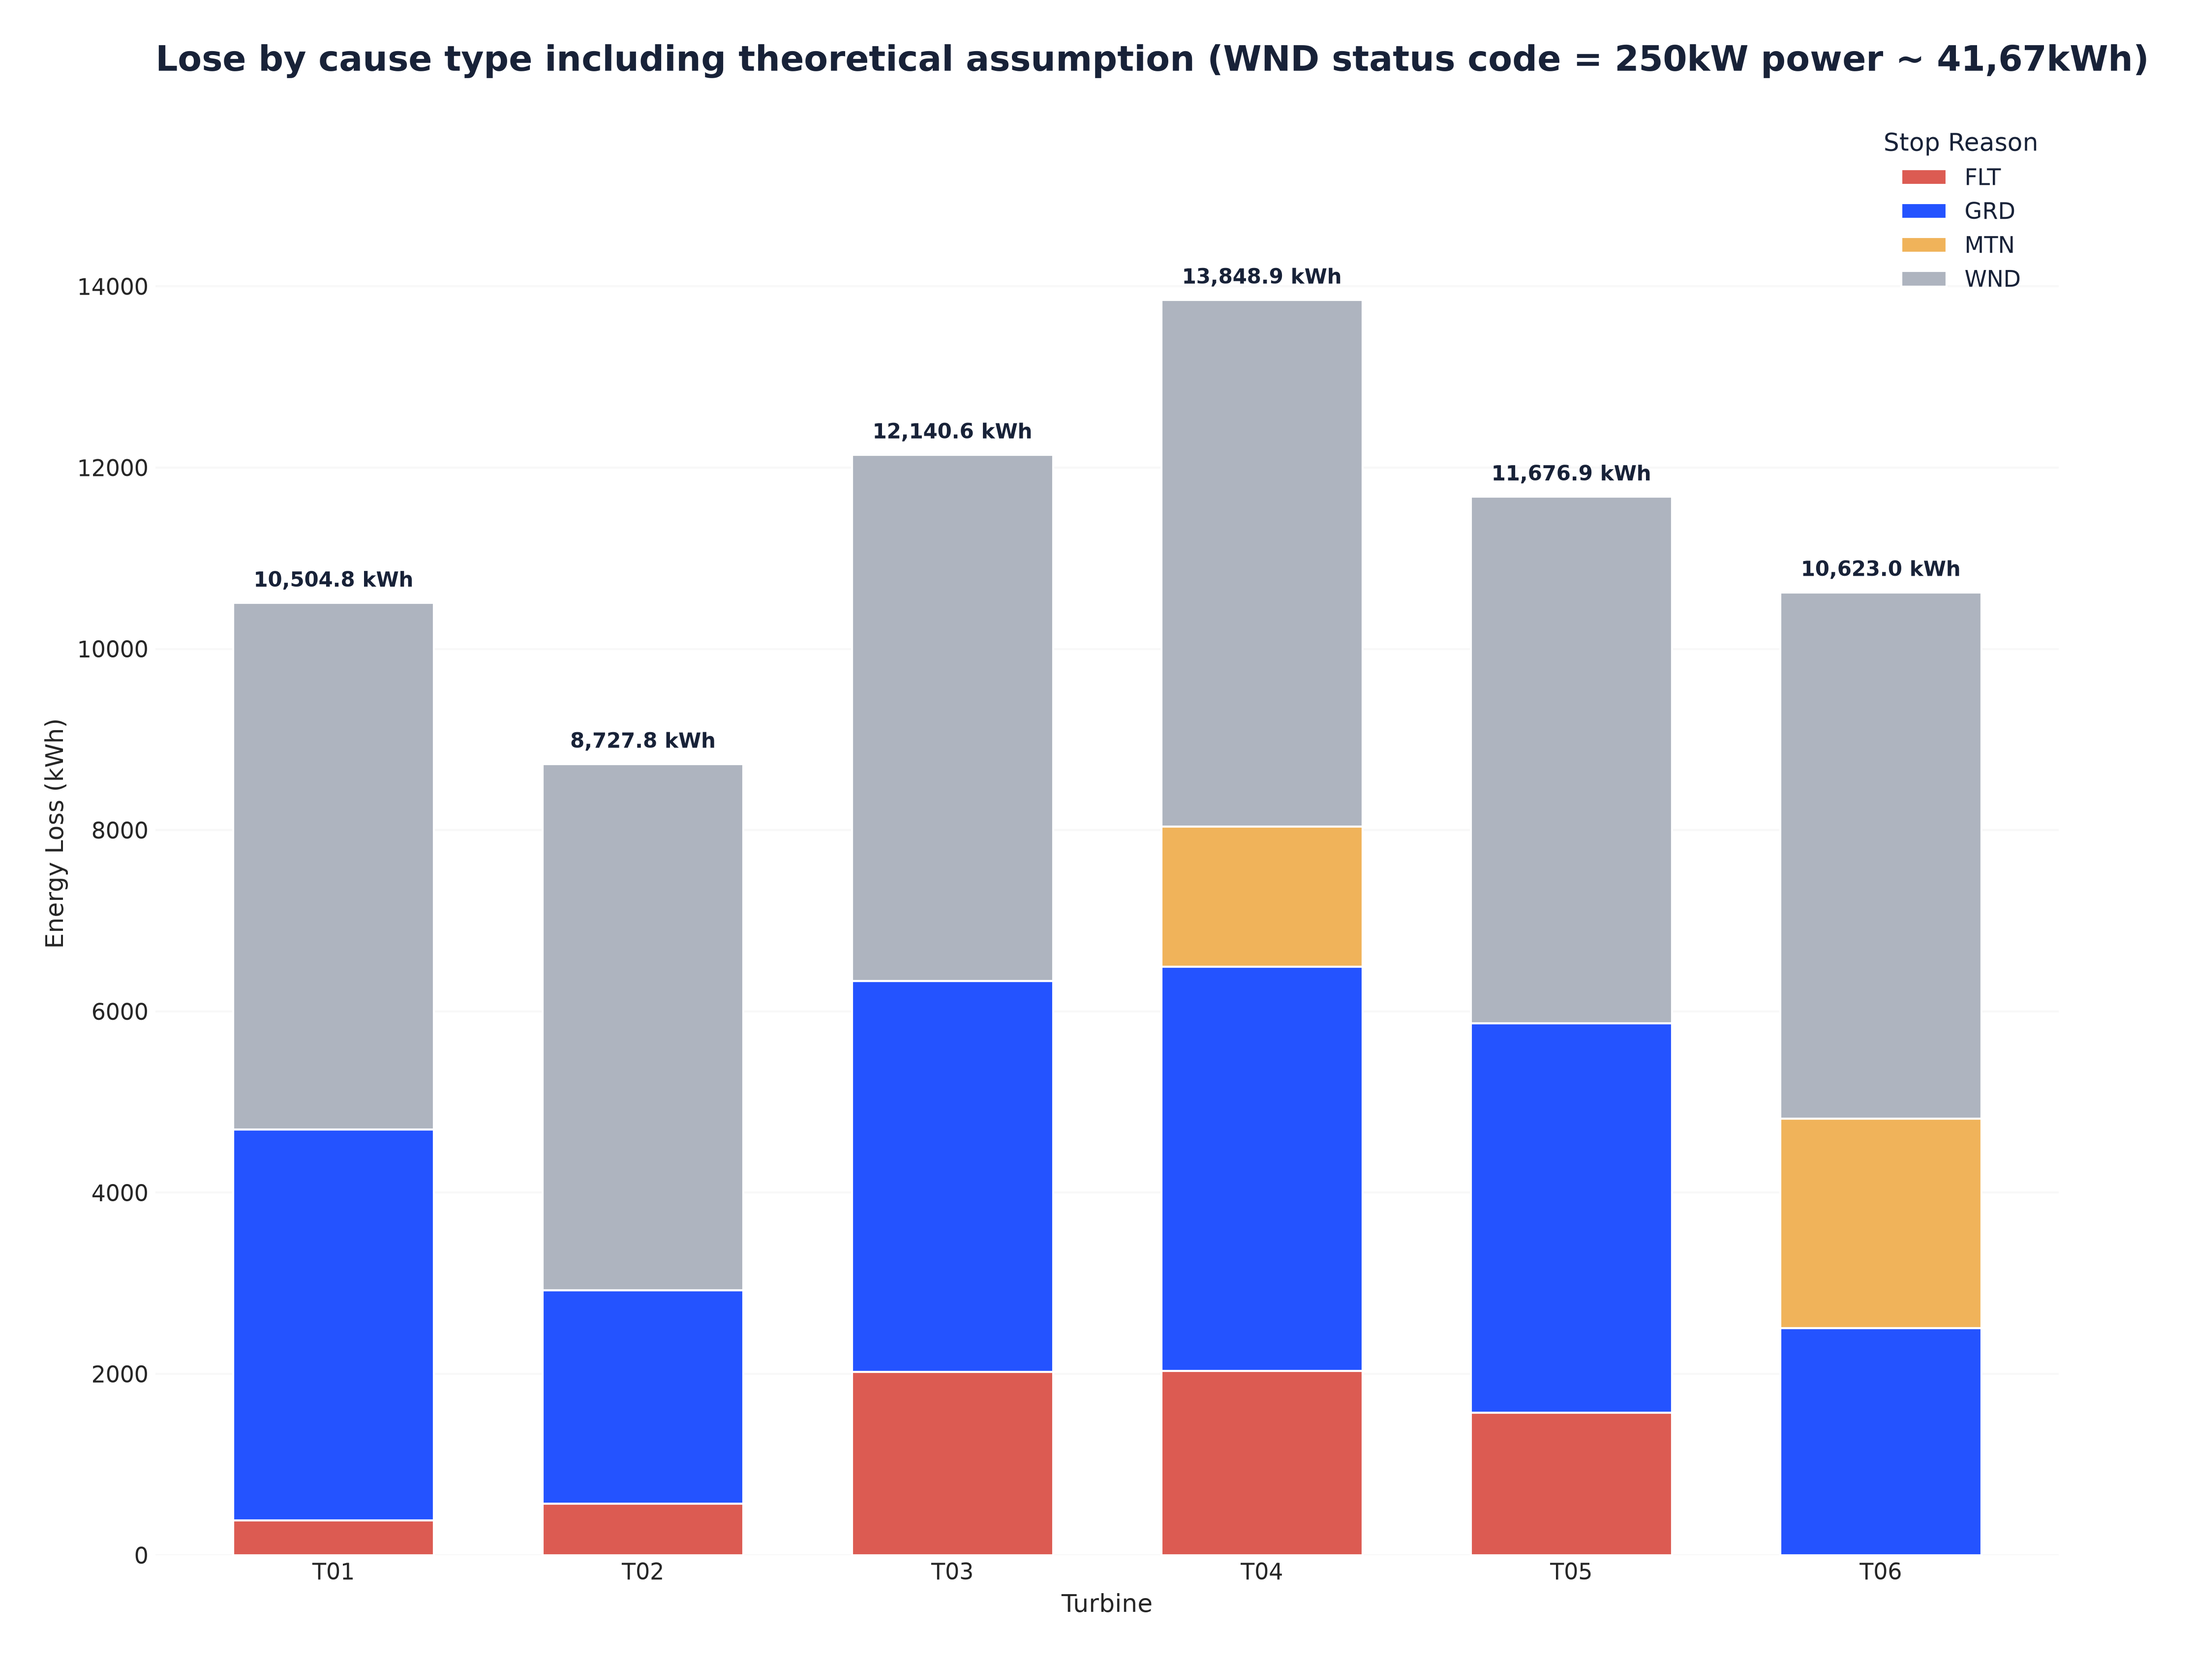
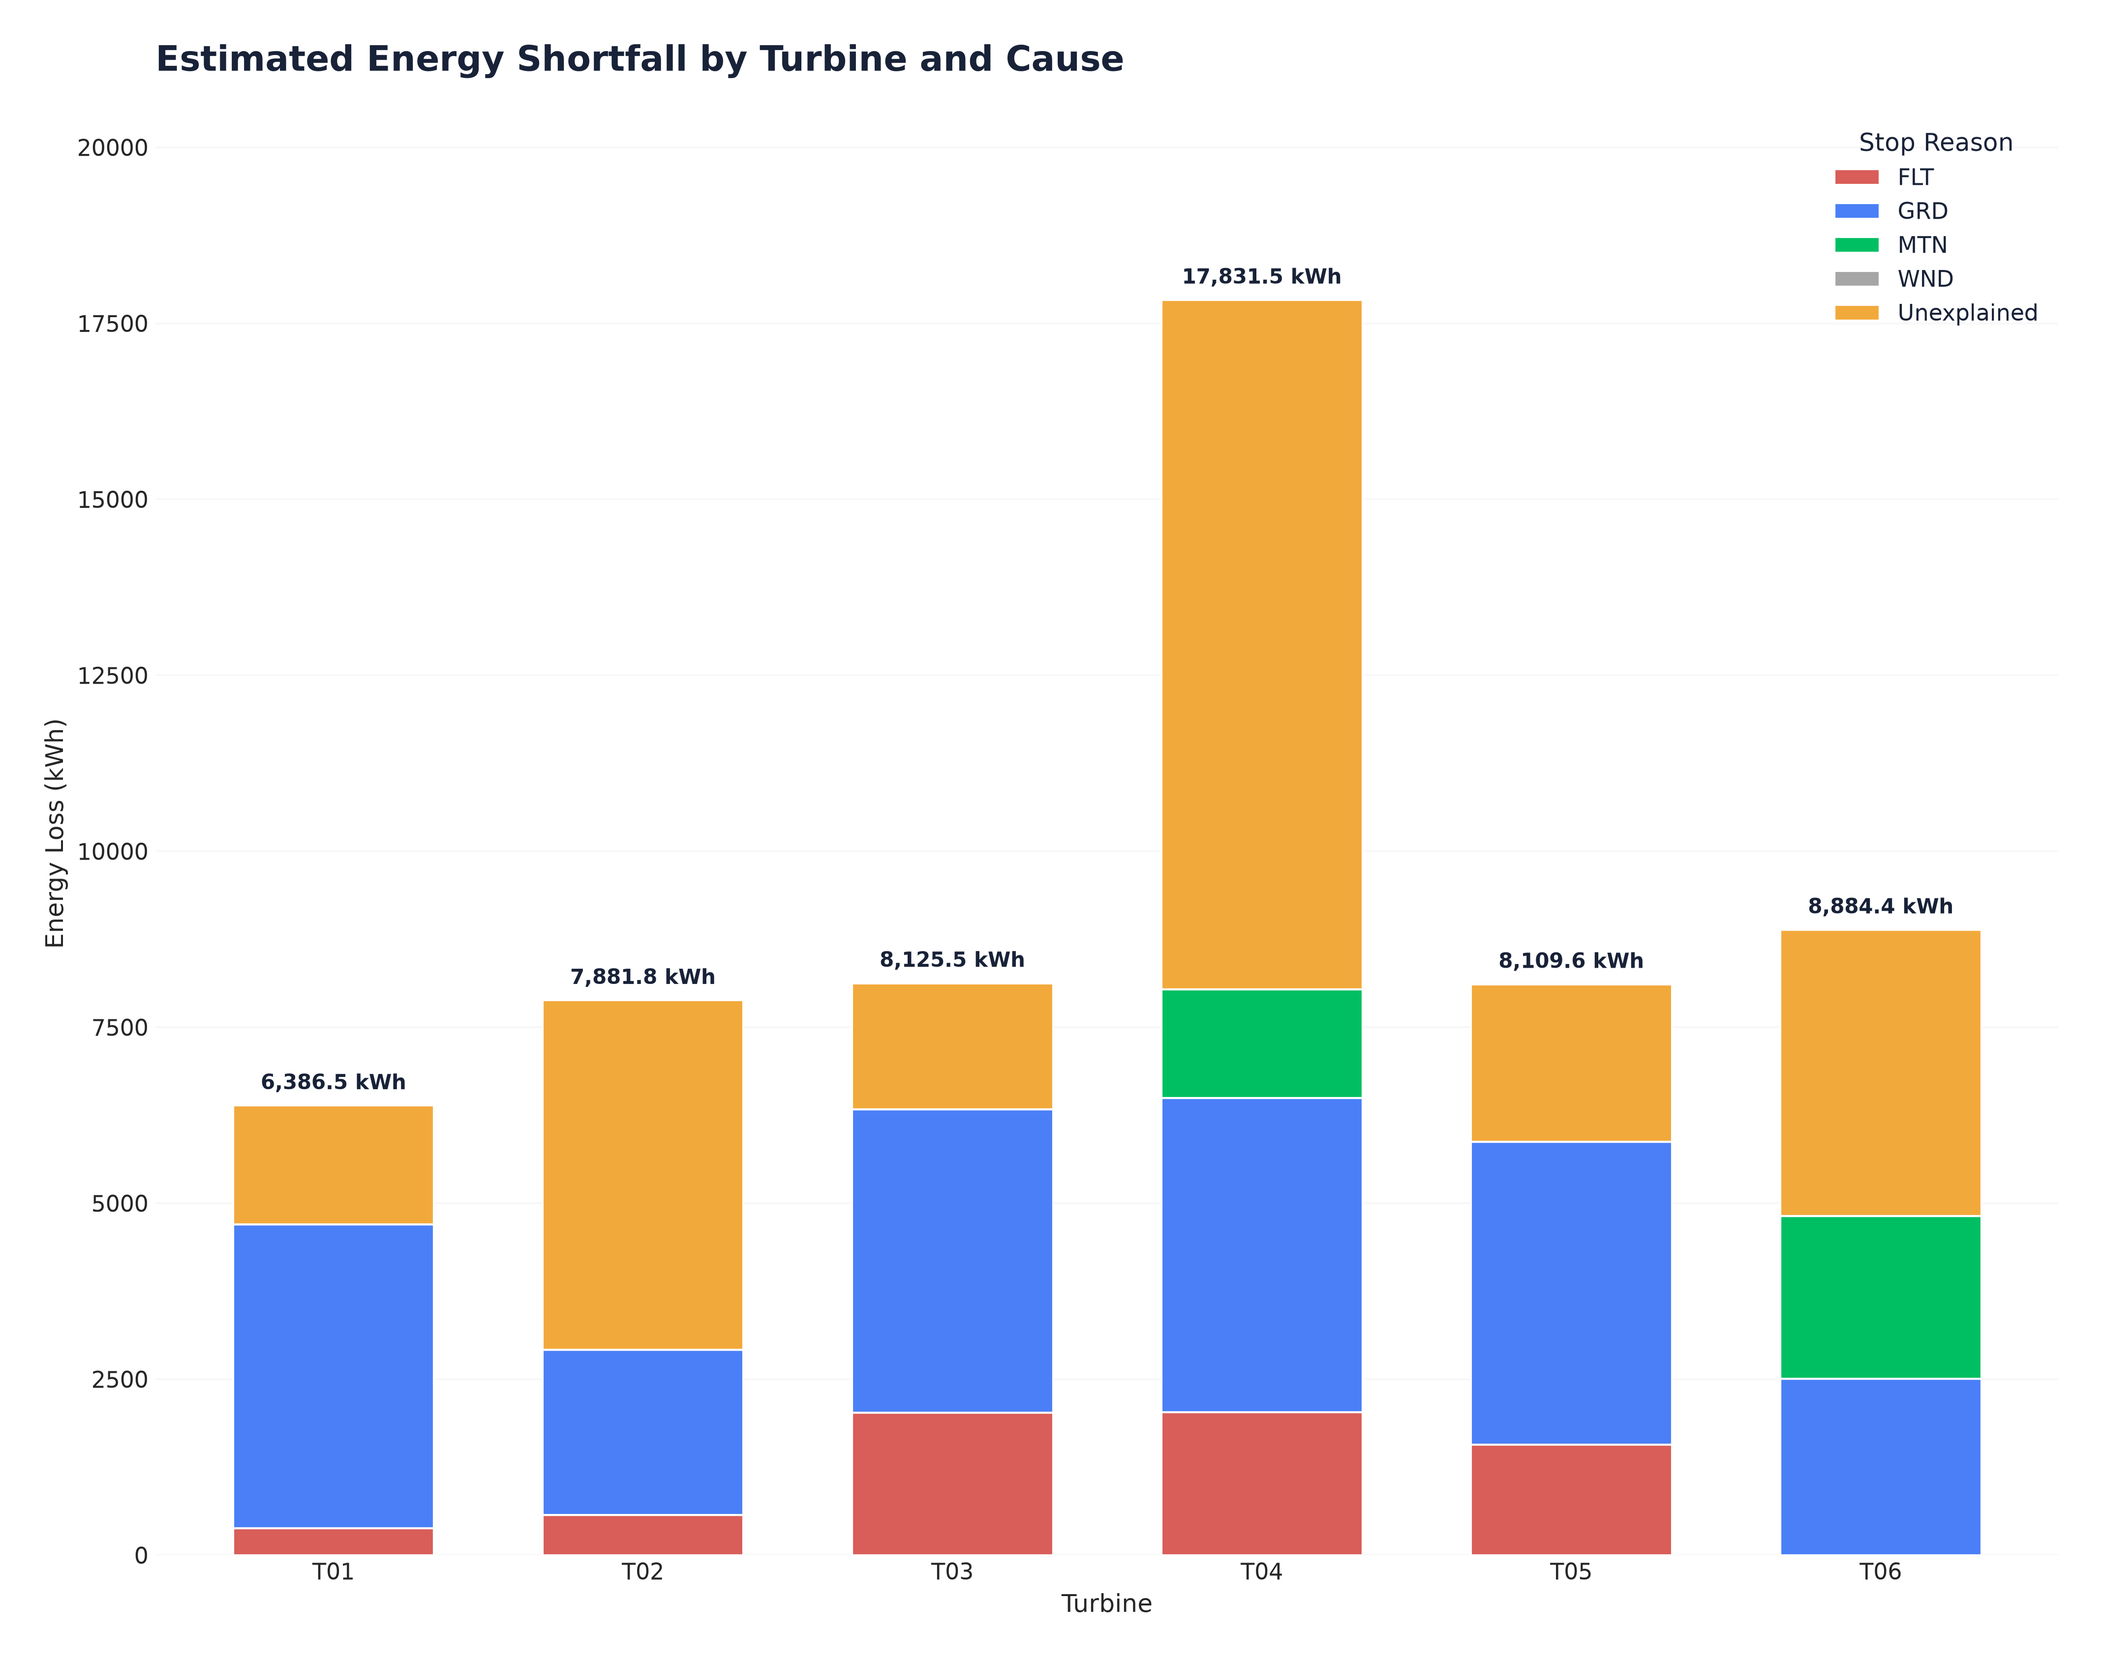
Updated description and clarified naming

diff --git a/README.md b/README.md
@@ -19,7 +19,7 @@ During the investigation, I found several important results:
 ## Park-Level Performance
 During the 7-day period (2026-03-01 to 2026-03-07), the wind farm generated a total of 642.33 MWh of energy.
 
-![alt text](image-4.png)
+![alt text](image-3.png)
 
 During this period, different types of operational stops were recorded, including park-level grid limitations (GRD), hydraulic technical faults (FLT), scheduled maintenance (MTN), and high-wind shutdowns (WND).
 
@@ -62,13 +62,16 @@ First, I compared the total energy production of each turbine to identify which 
 ![alt text](image-6.png)
 
 After that, I analyzed turbine availability to understand how much time each turbine was available for energy production. Threshold 90% was selected as an example, in real world value can vary. This information could be usefull for investors and consumers.
-![alt text](image-7.png)
+![alt text](image-1.png)
 
 Also, I compared the number of stops for each turbine to identify which turbines experienced more operational interruptions. We can see, that it's quite hard to see correlation between how long ago service was provided to turbine and the operational interruptions.
 ![alt text](image-8.png)
 
-Finally, I compared estimated energy losses by cause for each turbine to understand which operational events had the biggest impact on their production. We can see, that each bar has a huge loss on High wind shutdowns. This is provided from theoretical side by ignoring security reasons, that turbine would be able to generate 252.5kWh, but in practice this value would be equal to 0kWh, because it is not safe.   
+The chart includes a theoretical energy shortfall during high-wind shutdowns (WND), assuming that each turbine could generate 252.5 kWh per 10-minute interval. However, this is only a hypothetical scenario, as turbines must shut down during extreme wind conditions for safety reasons. Therefore, these values should not be considered recoverable energy losses. 
 ![alt text](image-9.png)
+
+Excluding theoretical WND losses, T04 shows the highest estimated shortfall (17.83 MWh), mainly due to unexplained underperformance. Grid limitations (GRD) also contribute significantly, highlighting areas for further investigation.
+![alt text](image.png)
 
 I also compared energy production at different wind speeds to understand how efficiently each turbine was operating.
 
